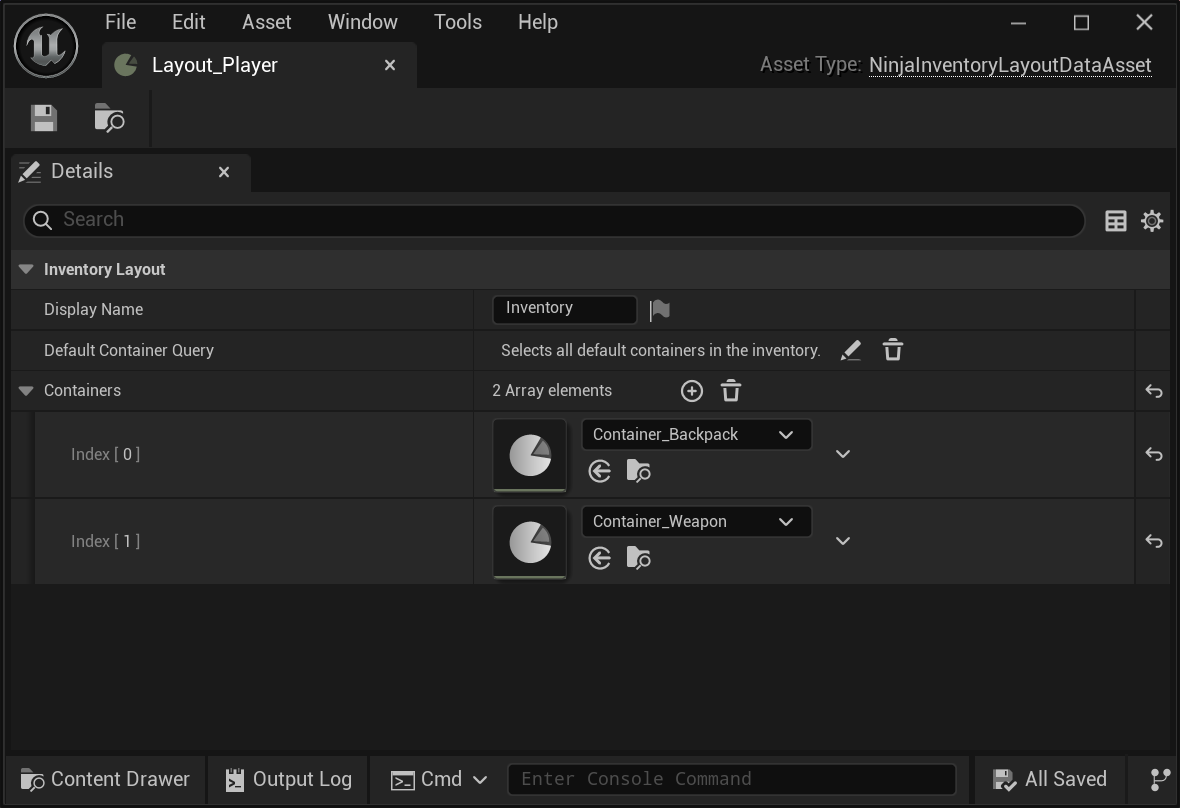
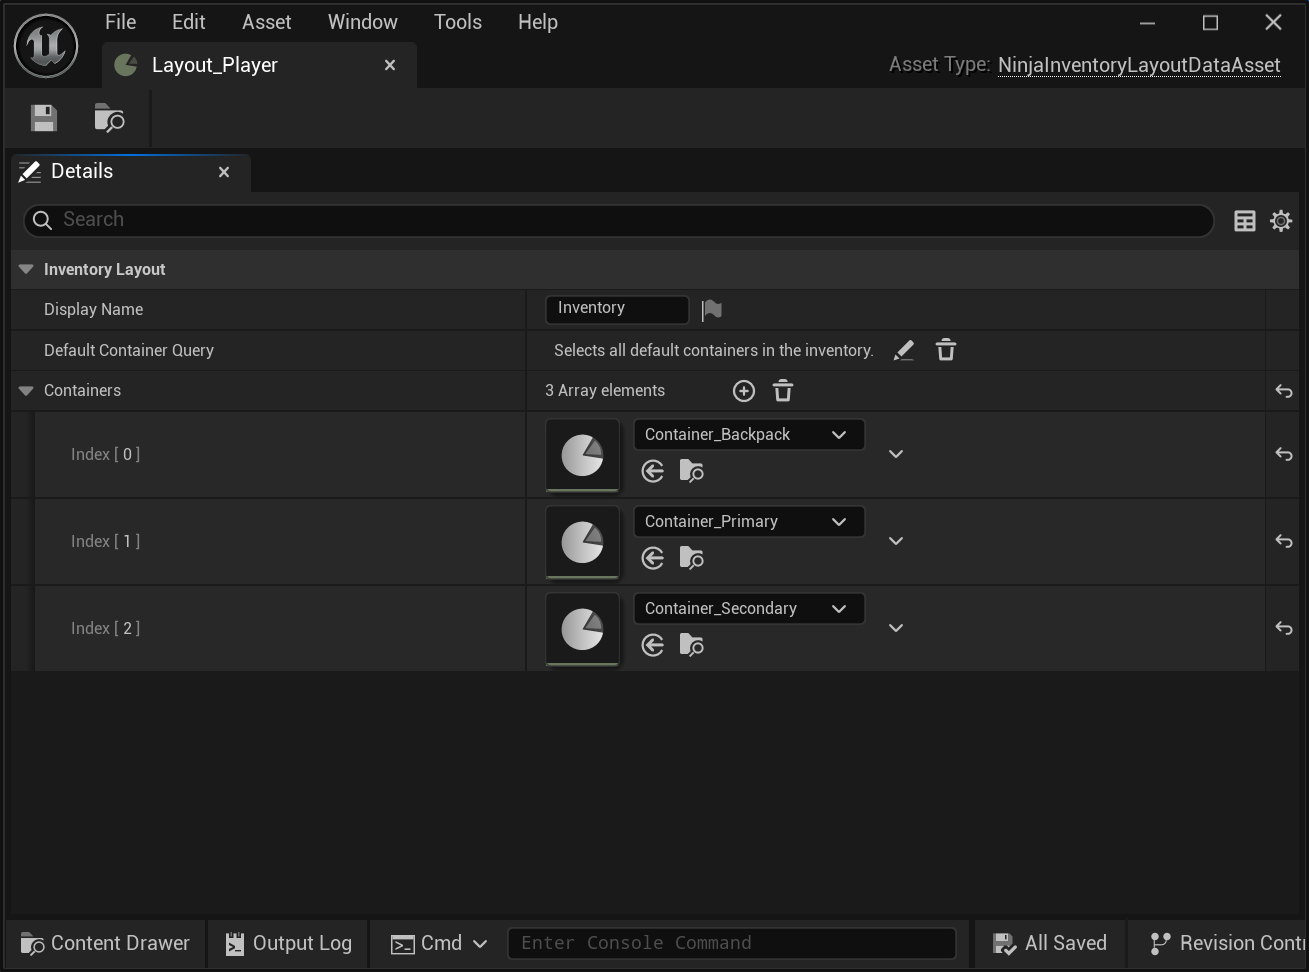
Added/fixed guides and updated changelogs.

diff --git a/Writerside/topics/showcase/guides/season_02/p02g06_create_inventory_ui.md b/Writerside/topics/showcase/guides/season_02/p02g06_create_inventory_ui.md
@@ -1,0 +1,144 @@
+# Create the Inventory UI
+<secondary-label ref="guide"/>
+
+Let's create the first part of the Inventory UI, so it can display the weapon slots and the backpack. These will be 
+built using the base Inventory Widgets and UMG Viewmodels.
+
+## Main Interface Elements
+
+First, we need to create all **main widgets** that represent our current Inventory Layout: Primary and Secondary weapons,
+the backpack for all other items, and the Inventory Window itself.
+
+<procedure title="Create the Item Widget" collapsible="true">
+    <step>Create a new <b>Widget Blueprint</b> based on <code>NinjaInventoryItemWidget</code>.</step>
+    <step>
+        <p>Design the widget, making sure that you have a valid <b>Image Component</b> that will be used for the Icon. Mark this component as a <b>variable</b>.</p>
+        <img src="p02g06_item_widget_icon.png" alt="Item Widget Icon" thumbnail="true" border-effect="line" width="600"/>
+    </step>
+    <step>
+        <p>Go to the <b>Graph</b> and, in the <code>PreConstruct</code> event, hide the Icon component, marking it as <b>collapsed</b>.</p>
+        <img src="p02g06_item_widget_pre_construct.png" alt="Item Widget Pre-Construct" thumbnail="true" border-effect="line" width="600"/>
+    </step>
+    <step>
+        <p>Create a new Blueprint Function, <code>SetIcon</code>, to receive the <b>Icon</b> and set the texture to the correct component. This function will receive a <code>Texture2D</code> object.</p>
+        <img src="p02g06_item_widget_set_icon.png" alt="Item Widget Set Icon Function" thumbnail="true" border-effect="line" width="600"/>
+    </step>
+    <step>Back to the <b>Widget Designer</b>, add the <b>Item User Interface Viewmodel</b>, and configure the <b>Creation Type</b> to <b>Create Instance</b>.</step>
+    <step>
+        <p>Add a <b>View Binding</b> mapping the <code>Icon</code> property from the Viewmodel to the <code>SetIcon</code> function.</p>
+        <img src="p02g06_item_widget_viewmodel.png" alt="Item Widget Viewmodel" thumbnail="true" border-effect="line" width="600"/>
+    </step>
+</procedure>
+
+<procedure title="Create the widget for the primary weapon" collapsible="true">
+    <step>Create a new <b>Widget Blueprint</b> based on <code>NinjaInventoryContainerWidget</code>.</step>
+    <step>
+        <p>Click the <b>root element</b> in the widget and set the <b>Container Data</b> to the <b>Primary Container</b> and set the <b>Item Widget Class</b> as the <b>Item Widget</b> created in the previous step.</p>
+        <img src="p02g06_weapon_widget_settings.png" alt="Primary Weapon Settings" thumbnail="true" border-effect="line" width="600"/>        
+    </step>
+    <step>
+        <p>Design the widget as you like, making sure that you have a valid <b>Named Slot</b> labeled <code>ContainerViewSlot</code>. In this Named Slot, add an <b>Inventory Container Border</b>, and finally, inside the Container Border, add the <b>Item Widget</b> created in the previous step.</p>
+        <img src="p02g06_weapon_named_slot.png" alt="Primary Weapon Slot Setup" thumbnail="true" border-effect="line" width="600"/>
+        <note>
+            <p><b>Container Border</b></p>
+            <p>A Container Border is a good component choice, when you only want to represent a single item. Usually the case for <b>Equipment Slots</b>.</p>
+        </note>
+    </step>
+    <step>
+        <p>Add the <b>Inventory Items View Model</b>, set it to be instantiated when the widget is created, and bind it to the <code>RefreshItems</code> function.</p>
+        <img src="p02g06_weapon_widget_binding.png" alt="Primary Weapon Binding" thumbnail="true" border-effect="line" width="600"/>  
+        <note>
+            <p><b>Refresh Items Function</b></p>
+            <p>This function is provided by the base <b>Container Widget</b> and will refresh items as needed. You can also create your own function and call <code>RefreshItems</code> in there, if you need additional logic.</p>
+        </note>
+    </step>
+</procedure>
+
+<procedure title="Create the widget for the secondary weapon" collapsible="true">
+    <step>Create a new <b>Widget Blueprint</b> based on <code>NinjaInventoryContainerWidget</code>.</step>
+    <step>Repeat the same tasks from the previous step, but set the <b>Container Data</b> to the <b>Secondary Container</b>.</step>
+</procedure>
+
+<procedure title="Create the Backpack Widget" collapsible="true">
+    <step>Create a new <b>Widget Blueprint</b> based on <code>NinjaInventoryContainerWidget</code>.</step>
+    <step>
+        <p>Click the <b>root element</b> in the widget and set the <b>Container Data</b> to the <b>Backpack Container</b> and set the <b>Item Widget Class</b> as the <b>Item Widget</b> created in the previous step.</p>
+        <img src="p02g06_backpack_widget_settings.png" alt="Backpack Settings" thumbnail="true" border-effect="line" width="600"/>        
+    </step>
+    <step>
+        <p>Design the widget as you like, making sure that you have a valid <b>Named Slot</b> labeled <code>ContainerViewSlot</code>. In this Named Slot, add an <b>Inventory Container Box</b>. Enable <b>Fill Empty Slots</b>. Depending on your design, you might want to also set <b>Wrap Size</b> and <b>Explicit Wrap Size</b>.</p>
+        <img src="p02g06_backpack_named_slot.png" alt="Backpack Slot Setup" thumbnail="true" border-effect="line" width="600"/>
+        <note>
+            <p><b>Container Box</b></p>
+            <p>A Container Box is a good component choice, when you want to represent items in a <b>grid</b>.</p>
+        </note>
+    </step>
+    <step>Add the <b>Inventory Items View Model</b>, set it to be instantiated when the widget is created, and bind it to the <code>RefreshItems</code> function.</step>
+</procedure>
+
+<procedure title="Create the Inventory Window Widget" collapsible="true">
+    <step>Create a new <b>Widget Blueprint</b> based on <code>NinjaInventoryWindowWidget</code>.</step>
+    <step>
+        <p>Design the widget as you like, making sure that you incorporate all widgets previously created: <b>Primary Weapon</b>, <b>Secondary Weapon</b> and <b>Backpack</b>. Also add a <b>Text Component</b> for the <b>title</b> that will be obtained from the <b>Layout Data Asset</b>.</p>
+        <img src="p02g06_inventory_window_designer.png" alt="Inventory Window Designer" thumbnail="true" border-effect="line" width="600"/>
+    </step>
+    <step>
+        <p>Add the <b>Inventory Layout View Model</b>, set it to be instantiated when the widget is created, and bind the <b>Display Name</b> property to the <code>Title Text</code>.</p>
+        <img src="p02g06_inventory_window_title_binding.png" alt="Inventory Window Title Binding" thumbnail="true" border-effect="line" width="600"/>
+    </step>
+    <step>
+        <p>In the <b>Blueprint Graph</b>, create a <b>Show Inventory</b> event that will set the <b>Input Mode</b> to <b>Menu</b> and <b>show the mouse cursor</b>. For now, this will always be called during the <b>Construct</b> event. The <b>Hide Inventory</b> function reverts that setting.</p>
+        <img src="p02g06_inventory_window_graph.png" alt="Inventory Window Graph" thumbnail="true" border-effect="line" width="600"/>
+        <note>
+            <p><b>Handling Input Mode</b></p>
+            <p>For now, the Inventory Widget will be constantly shown and the mouse will be captured in the <b>Menu</b> mode, so it won't be received by the gameplay.</p>
+            <p>In the following sections, we'll continue to work on the Inventory Interface, until we configure the inputs to be better integrated with the game.</p>
+        </note>
+    </step>
+</procedure>
+
+<procedure title ="Update the Gameplay Widget">
+    <step>
+        <p>Open the Gameplay Widget previously created for the <b><a href="p02g03_player_attributes.md">Player Attributes</a></b> and add the Inventory Widget, organizing it whenever you see fit.</p>
+        <img src="p02g06_gameplay_widget.png" alt="Gameplay Widget" thumbnail="true" border-effect="line" width="600"/>
+    </step>
+</procedure>
+
+<procedure title="Test everything" collapsible="true">
+    <step>Press <b>Play</b> and your Inventory Window should be displayed.</step>
+    <step>Your <b>Primary Weapon Slot</b> should display the icon from the <b>Sword and Shield</b> item.</step>
+    <step>The <b>Secondary Weapon Slot</b> should be empty.</step>
+    <step>The <b>Backpack</b> should be empty, but it should display all empty positions as the pre-defined item widget.</step>
+    <img src="p02g06_results_01.png" alt="Test the Setup" thumbnail="true" border-effect="line" width="600"/>
+</procedure>
+
+## Drag and Drop and Tooltips
+
+<procedure title="Configure the quality table" collapsible="true">
+</procedure>
+
+<procedure title="Add the Quality Fragment to items" collapsible="true">
+</procedure>
+
+<procedure title="Create the Drag and Drop Widget" collapsible="true">
+</procedure>
+
+<procedure title="Create the Tooltip Widget" collapsible="true">
+</procedure>
+
+<procedure title="Update the Item Widget" collapsible="true">
+</procedure>
+
+<procedure title="Test everything" collapsible="true">
+</procedure>
+
+## Show and Hide the Inventory Window
+
+<procedure title="Configure Input Actions and Input Handlers" collapsible="true">
+</procedure>
+
+<procedure title="Update the HUD to handle interface events" collapsible="true">
+</procedure>
+
+<procedure title="Update the main widget to handle interface events" collapsible="true">
+</procedure>

diff --git a/Writerside/topics/showcase/guides/season_02/p02g05_configure_inventory.md b/Writerside/topics/showcase/guides/season_02/p02g05_configure_inventory.md
@@ -4,6 +4,15 @@
 To create our **secondary weapon**, we should have **Ninja Inventory** configured. So this is our next task: perform the
 setup, update the **Weapon Manager**, and convert our weapons into **Items** and **Equipment**.
 
+<procedure title="Add the Inventory Attribute Set">
+    <step>Create a <b>Data Table</b> for <b>Inventory Attributes</b>, using the base data from <a href="inv_attributes.md"/>.</step>
+    <step>Change the initial <b>Backpack Attribute</b> to <code>20</code>, or any other value that you prefer.</step>
+    <step>
+        <p>Add the <b>Inventory Attribute Set</b> to the player, via the <b>Ability Definition</b>.</p>
+        <img src="p02g05_inventory_attribute_set.png" alt="Inventory Attribute Set" thumbnail="true" border-effect="line" width="600"/>
+    </step>
+</procedure>
+
 <procedure title="Configure the Equipment Manager Component" collapsible="true">
     <step>Add the <b>Equipment Manager Component</b> to the Player Character.</step>
     <step>
@@ -49,7 +58,7 @@ setup, update the **Weapon Manager**, and convert our weapons into **Items** and
 <procedure title="Create the Weapon Item Definition" collapsible="true">
     <step>Create a new <b>Item Definition</b>, from the <b>Content Menu</b>, for the <b>Sword and Shield</b>.</step>
     <step>Set a Gameplay Tag that identifies this item - <code>Inventory.Item.Weapon.SwordAndShield</code>.</step>
-    <step>Add the <b>User Interface Fragment</b>, set the <b>Display Name</b> ("<i>Sword and Shield</i>") and <b>Display Type</b> (<i>Weapon</i>).</step>
+    <step>Add the <b>User Interface Fragment</b>, set the <b>Display Name</b> ("<i>Sword and Shield</i>"), <b>Display Type</b> (<i>Weapon</i>) and an Icon.</step>
     <step>Add the <b>Stack Fragment</b>, set the <b>Stack Limit</b> as <b>1</b> and <b>Maximum Limit</b> as 1.</step>
     <step>
         <p>Add the <b>Container Fragment</b>, set the <b>Preferred Container Query</b> to indicate the <b>Weapon Container</b>.</p>
@@ -59,7 +68,7 @@ setup, update the **Weapon Manager**, and convert our weapons into **Items** and
     <img src="p02g05_item_definition.png" alt="Item Definition" thumbnail="true" border-effect="line" width="600"/>
 </procedure>
 
-<procedure title="Create the Backpack Item Container" collapsible="true">
+<procedure title="Create the Backpack container" collapsible="true">
     <step>Create a new <b>Container Definition</b>, from the <b>Content Menu</b>, for the <b>Backpack</b> container.</step>
     <step>
         <p>Set the <b>Display Name</b> as <b>Backpack</b>, and add <code>Inventory.Container.Backpack</code> and <code>Inventory.Container.Default</code> Gameplay Tags.</p>
@@ -68,20 +77,21 @@ setup, update the **Weapon Manager**, and convert our weapons into **Items** and
             <p>The <code>Inventory.Container.Default</code> is provided by the system and indicates a default container, used when no better option is available.</p>
         </tip>
     </step>
+    <step>Set the <b>Priority</b> to <code>100</code>, so this container will have low priority in comparison with other compatible containers.</step>
     <step>
         <p>Set the <code>NinjaInventoryAttributeSet.BackpackSlots</code> as the <b>Slots Attribute</b>.</p>
         <tip>
-            <p><b>Default Backpack Attribute Value</b></p>
-            <p>The Backpack Attribute is initialized with <code>12</code>, when you import the initial data from the <a href="inv_attributes.md"/> page.</p>
+            <p><b>Backpack Attribute Value</b></p>
+            <p>This attribute is part of the <b>Ninja Inventory Attribute Set</b>, and it was previously initialized in this guide.</p>
         </tip>
     </step>
     <img src="p02g05_backpack_definition.png" alt="Backpack Definition" thumbnail="true" border-effect="line" width="600"/>
 </procedure>
 
-<procedure title="Create the Weapon Equipment Slot" collapsible="true">
-    <step>Create a new <b>Container Definition</b>, from the <b>Content Menu</b>, for the <b>Weapon</b>.</step>
+<procedure title="Create the Primary Weapon slot" collapsible="true">
+    <step>Create a new <b>Container Definition</b>, from the <b>Content Menu</b>, for the <b>Primary Weapon</b>.</step>
     <step>
-        <p>Set the <b>Display Name</b> as <b>Main Weapon</b>, and add <code>Inventory.Container.Equipment</code> and <code>Inventory.Container.Weapon.Main</code> Gameplay Tags.</p>
+        <p>Set the <b>Display Name</b> as <b>Primary Weapon</b>, and add <code>Inventory.Container.Equipment</code> and <code>Inventory.Container.Weapon.Main</code> Gameplay Tags.</p>
         <tip>
             <p><b>Equipment Container</b></p>
             <p>The <code>Inventory.Container.Equipment</code> is provided by the system and indicates an equipment slot, used to store equipment instances.</p>
@@ -93,12 +103,19 @@ setup, update the **Weapon Manager**, and convert our weapons into **Items** and
         <p>Set the <b>Item Compatibility Query</b> so it filters items tagged as <b>Weapons</b>.</p>
         <img src="p02g05_weapon_slot_query.png" alt="Weapon Slot Query" thumbnail="true" border-effect="line" width="600"/>
     </step>
-    <img src="p02g05_weapon_slot_definition.png" alt="Weapon Definition" thumbnail="true" border-effect="line" width="600"/>
+    <img src="p02g05_primary_weapon_definition.png" alt="Primary Weapon Definition" thumbnail="true" border-effect="line" width="600"/>
+</procedure>
+
+<procedure title="Create the Secondary Weapon slot" collapsible="true">
+    <step>Create a new <b>Container Definition</b>, from the <b>Content Menu</b>, for the <b>Secondary Weapon</b>.</step>
+    <step>Repeat the steps above, defining the <b>Secondary Weapon</b> slot.</step>
+    <step>Set the <b>Priority</b> to <code>2</code> to prioritize the <b>Primary Weapon</b> equipment slot.</step>
+    <img src="p02g05_secondary_weapon_definition.png" alt="Secondary Weapon Definition" thumbnail="true" border-effect="line" width="600"/>
 </procedure>
 
 <procedure title="Configure the Inventory Layout" collapsible="true">
     <step>Create a new <b>Inventory Layout</b>, from the <b>Context Menu</b>.</step>
-    <step>Add both <b>Container Definitions</b> to this layout.</step>
+    <step>Add all <b>Container Definitions</b> created in the previous step to the list of <b>Container Definitions</b>.</step>
     <img src="p02g05_inventory_layout.png" alt="Inventory Layout" thumbnail="true" border-effect="line" width="600"/>
 </procedure>
 
@@ -115,7 +132,7 @@ setup, update the **Weapon Manager**, and convert our weapons into **Items** and
     </step>
 </procedure>
 
-<procedure title="Add Default Items" collapsible="true">
+<procedure title="Add default items" collapsible="true">
     <step>In the <b>Inventory Manager Component</b>, set the <b>Inventory Layout</b> that was just created.</step>
     <step>
         <p>Add an entry for <b>Default Items</b> and add the <b>Sword and Shield</b> as the <b>Item Data</b>.</p>
@@ -127,7 +144,7 @@ setup, update the **Weapon Manager**, and convert our weapons into **Items** and
     <img src="p02g05_default_items.png" alt="Add Default Items" thumbnail="true" border-effect="line" width="600"/>
 </procedure>
 
-<procedure title="Test Everything" collapsible="true">
+<procedure title="Test everything" collapsible="true">
     <step>Press <b>Play</b> and check the sword and shield added to the correct slots and sockets.</step>
     <step>Open your <b>Gameplay Debugger</b>, by pressing the pre-defined key. You can access the Gameplay Debugger Configuration in the <b>Project Settings</b>, <b>Gameplay Debugger</b> page.</step>
     <step>Expand the <b>Inventory Category</b> and notice that both <b>Containers</b> were added and the <b>Weapon Item</b> is set to the correct slot.</step>

diff --git a/Writerside/topics/combat/architecture/cbt_component_extensions.md b/Writerside/topics/combat/architecture/cbt_component_extensions.md
@@ -22,6 +22,33 @@ The following table shows all components that can be swapped on interface level.
 | `TargetManagerInterface`     | Base Combat Manager          | `CreateTargetManagerComponent`     |
 | `WeaponManagerInterface`     | `WeaponManagerComponent`     | `GetAndCacheWeaponManager`         |
 
+## The Combat Manager Component
+
+The Combat Manager Component is the main component in the system. It does not have its own interface, since it's always
+expected to be present in a combatant (including potential subclasses).
+
+This component is the default implementation of other interfaces (see table above) and will create additional components
+as needed. You can always override this behavior by providing your own components implementing the appropriate interfaces.
+In that case, the Combat Manager will find these instances and use them as needed.
+
+The Combat Manager also hosts useful delegates, both from the required interfaces and some of its own. They should be 
+useful when defining your own gameplay features.
+
+| Delegate                        | Source          | Purpose                                                                                       |
+|---------------------------------|-----------------|-----------------------------------------------------------------------------------------------|
+| `OnAttackStarted`               | Combat Manager  | Informs that an attack is starting. Provides the Ability Tags and the locked target (if any). |
+| `OnCombatTargetChanged`         | Target Manager  | Notifies a new target obtained or a target lost.                                              |
+| `OnStaggerStateChanged`         | Damage Manager  | Notifies changes in the _Staggered_ state.                                                    |
+| `OnDamageReceived`              | Damage Manager  | Notifies incoming damage.                                                                     |
+| `OnOwnerFinishedDying`          | Damage Manager  | Notifies the death of a combatant.                                                            |
+| `OnBlockingStateChanged`        | Defense Manager | Notifies changes in the _Blocking_ state.                                                     |
+| `OnInvulnerabilityStateChanged` | Defense Manager | Notifies changes in the _Invulnerability_ state.                                              |
+
+> **Delegate Binding**
+> 
+> Except for delegates exposed directly by the Combat Manager itself, you should use the appropriate interfaces to 
+> bind to other Delegates. You can unbind from them using the interface as well.
+
 ## Providing Custom Components
 
 Custom Components can be created by **implementing the correct Interface**, or **extending the base class**. 

diff --git a/Writerside/topics/showcase/guides_and_showcase.md b/Writerside/topics/showcase/guides_and_showcase.md
@@ -73,9 +73,9 @@ used with the enemy character, to show **attributes** and **status effects**.
 : To create our **secondary weapon**, we should have **Ninja Inventory** configured. So this is our next task: perform the 
 setup, update the **Weapon Manager**, and convert our weapons into **Items** and **Equipment**.
 
-**P02.G06: Create the Inventory UI**
-: Let's create the first part of the Inventory UI, so it can display our current weapons and their slots, along with the
-Backpack region. For this, we'll use provided base Inventory Widgets and Viewmodels.
+**[P02.G06: Create the Inventory UI](p02g06_create_inventory_ui.md)**
+: Let's create the first part of the Inventory UI, so it can display the weapon slots and the backpack. These will be 
+built using the base Inventory Widgets and UMG Viewmodels.
 
 **P02.G07: Create the Bow Weapon**  
 : With the new weapon configured and usable, we will create a **Projectile** and the appropriate **Attack Ability** to use 

diff --git a/Writerside/topics/combat/architecture/cbt_artificial_intelligence.md b/Writerside/topics/combat/architecture/cbt_artificial_intelligence.md
@@ -6,9 +6,10 @@ frameworks in Unreal Engine - **Behavior Trees** and **State Trees**.
 
 ## Behavior Trees
 
-| Node           | Type      | Description                                                              |
-|----------------|-----------|--------------------------------------------------------------------------|
-| Combatant Dead | Decorator | Checks if a combat actor is dead, based on **Damage Manager** condition. |
+| Node           | Type      | Description                                                                             |
+|----------------|-----------|-----------------------------------------------------------------------------------------|
+| Combatant Dead | Decorator | Checks if a combat actor is dead, based on **Damage Manager** condition.                |
+| Advance Combo  | Service   | Advances the combo either via Input or Gameplay Tag. Can be extended for dynamic logic. |
 
 ## State Trees
 

diff --git a/Writerside/topics/combat/cbt_changelog.md b/Writerside/topics/combat/cbt_changelog.md
@@ -214,9 +214,11 @@ First release for Unreal Engine 5.3.
 [bugfix] Fixed property visibility for State Tree nodes, so they can be used for property binding.
 ```
 
-## 2.19.51
+## 3.0.0
 <secondary-label ref="wip"/>
 ```
+[major] Combat Delegates were changed to provide the source component whenever applicable.
+[added] An extensible Behavior Tree Service that can send Combo Events to an ongoing Combo Ability branch.
 [added] Option to collect specific Melee Scan meshes, via Gameplay Tags.
 [improvement] Support for additional roles in the Opportunity Attack ability.
 [improvement] Exposed optional settings for Damage and Poise Consumption in weapons and projectiles.
